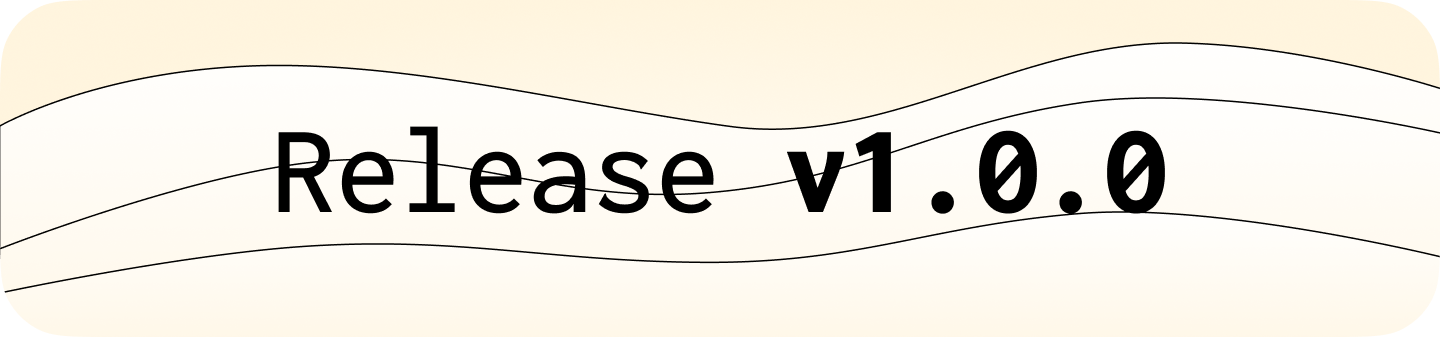
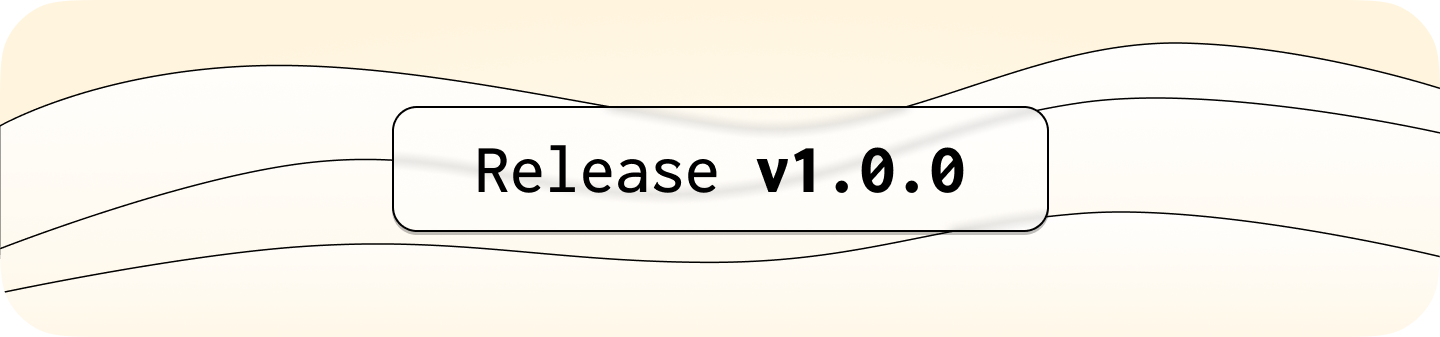
Correction pour la version finale

diff --git a/index.html b/index.html
@@ -161,8 +161,6 @@
                     Entrez le code d'accès pour rejoindre un groupe.
                 </p>
 
-                <img class="banner" src="./assets/banner/search2.png" alt="Bannière Recherche">
-
                 <div style="margin: 30px 0;">
                     <input type="text" id="joinCodeInput" placeholder="Code (ex: 45A2F)"
                         data-i18n="overlays.join.placeholder" style="text-transform: uppercase;" autocomplete="off" />
@@ -188,7 +186,7 @@
         </div>
     </div>
 
-    <div class="menu-overlay" id="changelogOverlay" style="display: none;">
+<div class="menu-overlay" id="changelogOverlay" style="display: none;">
         <div class="menu-box">
 
             <div class="input" style="padding-bottom: 0;">
@@ -199,53 +197,27 @@
 
                     <div class="changelog-entry" style="margin-bottom: 20px;">
 
-                        <img class="banner" src="./assets/banner/releasebanner.png" alt="Bannière Release" style="min-width: 100% !important; border-radius: 35px; border: #000 2px solid; box-shadow: 0px 3px 0px 0px #00000020;">
-
-                        <h2 style="margin-bottom: 15px; color: var(-text);">Release v1.0.0</h2>
-
-                        <strong style="color: var(-text); display: block; margin-bottom: 5px;"
-                            data-i18n="landing.changelogs.features">Fonctionnalités</strong>
-                        <ul style="margin: 0 0 10px 0; padding-left: 20px; color: #808080;">
-                            <li>Finalisation</li>
-                        </ul>
-
-                        <strong style="color: var(-text); display: block; margin-bottom: 5px;"
-                            data-i18n="landing.changelogs.ui_ux">Interface (UI/UX)</strong>
-                        <ul style="margin: 0 0 10px 0; padding-left: 20px; color: #808080;">
-                            <li>Finalisation</li>
-                        </ul>
-
-                        <strong style="color: var(-text); display: block; margin-bottom: 5px;"
-                            data-i18n="landing.changelogs.misc">Divers</strong>
-                        <ul style="margin: 0; padding-left: 20px; color: #808080;">
-                            <li>Finalisation</li>
-                        </ul>
-
-                        <hr style="border: 0; border-top: 1px solid #e0e0e0; margin: 30px 0;">
-                    </div>
-
                     <div class="changelog-entry" style="margin-bottom: 20px;">
-                        <h2 style="margin-bottom: 15px; color: var(-text);">Pre-release v0.9.4</h2>
+                        <h2 style="margin-bottom: 15px; color: var(-text);">Pre-release v1.0.0</h2>
 
                         <strong style="color: var(-text); display: block; margin-bottom: 5px;"
                             data-i18n="landing.changelogs.features">Fonctionnalités</strong>
                         <ul style="margin: 0 0 10px 0; padding-left: 20px; color: #808080;">
                             <li>Ajout du support de la langue anglaise.</li>
-                            <li>Ajout du theme couleur automatique.</li>
-                            <li>Ajout de notifications pour que cela ne bloque plus vos actions.</li>
+                            <li>Ajout du thème de couleur automatique.</li>
+                            <li>Ajout de notifications pour ne plus bloquer vos actions.</li>
                             <li>Ajout d'informations dynamiques pour le groupe dans l'overlay paramètres.</li>
-                            <li>Ajout d'effets sonores pour améliorer l'experiance utilisateur.</li>
+                            <li>Ajout d'effets sonores pour améliorer l'expérience utilisateur.</li>
                         </ul>
 
                         <strong style="color: var(-text); display: block; margin-bottom: 5px;"
                             data-i18n="landing.changelogs.ui_ux">Interface (UI/UX)</strong>
                         <ul style="margin: 0 0 10px 0; padding-left: 20px; color: #808080;">
-                            <li>Ajout de schéma pour illustrer les overlays.</li>
+                            <li>Ajout de schémas pour illustrer les overlays.</li>
                             <li>Modification de l'accessibilité du paramètre "requérir un nom".</li>
                             <li>Modification des boutons de sélection pour la solution de stockage cloud.</li>
                             <li>Modification du design de l'overlay "Nouveau message".</li>
-                            <li>Suppression de la section "room" des paramètres. Le bouton a été déplacé vers la section
-                                QR-Code.</li>
+                            <li>Suppression de la section "room" des paramètres. Le bouton a été déplacé vers la section QR-Code.</li>
                         </ul>
 
                         <strong style="color: var(-text); display: block; margin-bottom: 5px;"
@@ -264,7 +236,7 @@
                             data-i18n="landing.changelogs.features">Fonctionnalités</strong>
                         <ul style="margin: 0 0 10px 0; padding-left: 20px; color: #808080;">
                             <li>Ajout des dépôts pour rendre des fichiers.</li>
-                            <li>Ajout des signalements pour des problèmes rencontrés.</li>
+                            <li>Ajout des signalements pour les problèmes rencontrés.</li>
                             <li>Ajout d'un nom sans vérification.</li>
                         </ul>
 
@@ -274,7 +246,7 @@
                             <li>Nouvelles animations de chargement des pages.</li>
                             <li>Nouvelle animation d'apparition des overlays.</li>
                             <li>Nouvelle animation de validation des tickets.</li>
-                            <li>Nouvelle animation d'ouverture du tiroir de fichier.</li>
+                            <li>Nouvelle animation d'ouverture du tiroir de fichiers.</li>
                         </ul>
 
                         <strong style="color: var(-text); display: block; margin-bottom: 5px;"
@@ -446,6 +418,10 @@
                         <span class="text" style="font-size: 14px;" data-i18n="overlays.settings.view_project">Voir le
                             projet</span>
                     </a>
+                </div>
+
+                <div>
+                    <a style="width: 20px; border: 1px solid #00000000;"></a>
                 </div>
 
                 <p data-i18n="overlays.settings.rgpd">

diff --git a/room.html b/room.html
@@ -233,19 +233,19 @@
               style="padding-top: 20px; width: 100%; display: flex; flex-direction: row; flex-wrap: nowrap; justify-content: space-between; gap: 8px;">
 
               <a class="button-text" href="#"
-                style="min-height: 41px; padding: 0 40px; display: flex; align-items: center; gap: 8px; margin: 0; box-shadow: 0 4px 0px rgba(0, 0, 0, 0.2); pointer-events: none;">
+                style="min-height: 41px; padding: 0 40px; display: flex; align-items: center; gap: 8px; border-radius:50px 20px 20px 50px; margin: 0; box-shadow: 0 4px 0px rgba(0, 0, 0, 0.2); pointer-events: none;">
                 <img class="icon" src="./assets/icon/png/person.png">
                 <span class="text" id="user_count">0</span>
               </a>
 
               <a class="button-text" href="#"
-                style="min-height: 41px; padding: 0 40px; display: flex; align-items: center; gap: 8px; margin: 0; box-shadow: 0 4px 0px rgba(0, 0, 0, 0.2); pointer-events: none;">
+                style="min-height: 41px; padding: 0 40px; display: flex; align-items: center; gap: 8px; border-radius:10px ; margin: 0; box-shadow: 0 4px 0px rgba(0, 0, 0, 0.2); pointer-events: none;">
                 <img class="icon" src="./assets/icon/png/folder.png">
                 <span class="text" id="storage_count">0 Go</span>
               </a>
 
               <a class="button-text" href="#"
-                style="min-height: 41px; padding: 0 40px; display: flex; align-items: center; gap: 8px; margin: 0; box-shadow: 0 4px 0px rgba(0, 0, 0, 0.2); pointer-events: none;">
+                style="min-height: 41px; padding: 0 40px; display: flex; align-items: center; gap: 8px; border-radius:20px 50px 50px 20px; margin: 0; box-shadow: 0 4px 0px rgba(0, 0, 0, 0.2); pointer-events: none;">
                 <img class="icon" src="./assets/icon/png/timer.png">
                 <span class="text" id="room_timer">00:00:00</span>
               </a>
@@ -389,7 +389,7 @@
             </div>
 
             <div style="display: flex; justify-content: space-between; align-items: center; margin: 15px 0;">
-              <span data-i18n="overlays.settings.language">Langue (Bêta)</span>
+              <span data-i18n="overlays.settings.language">Langues (Bêta)</span>
               <a class="button-text" id="langToggle" href="#"
                 style="min-height: 41px; width: auto; padding: 0 20px; flex: unset; min-width: 80px; opacity: 30%; pointer-events: none;">
                 <span class="text" style="font-size: 14px;">FR</span>
